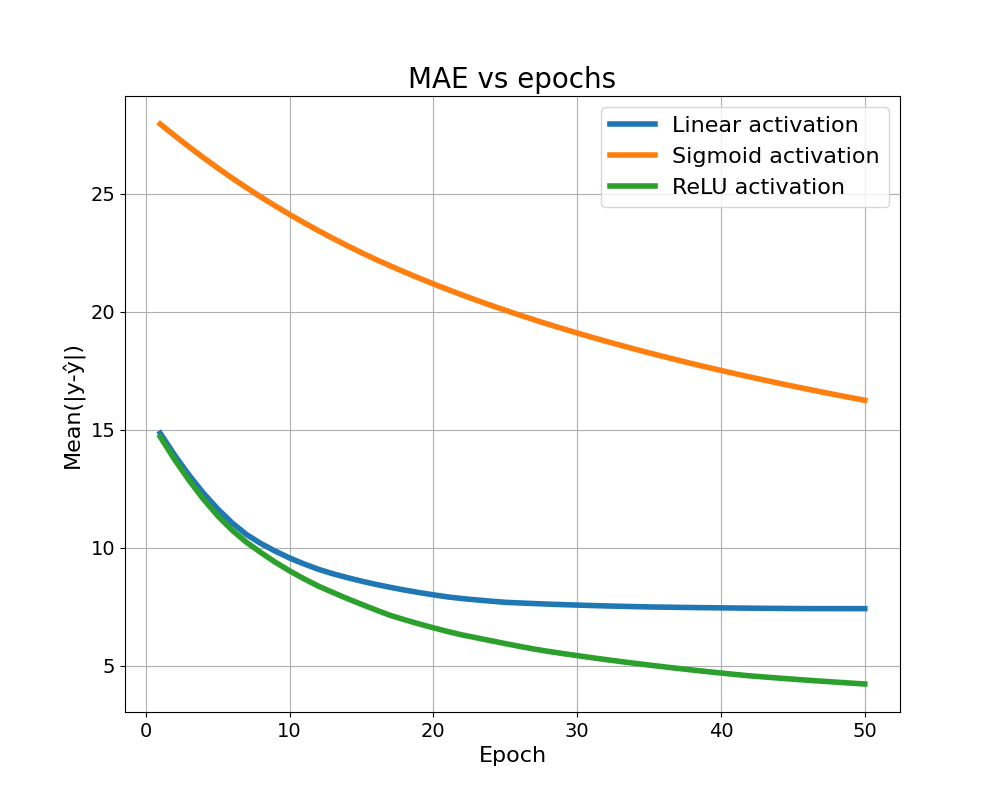
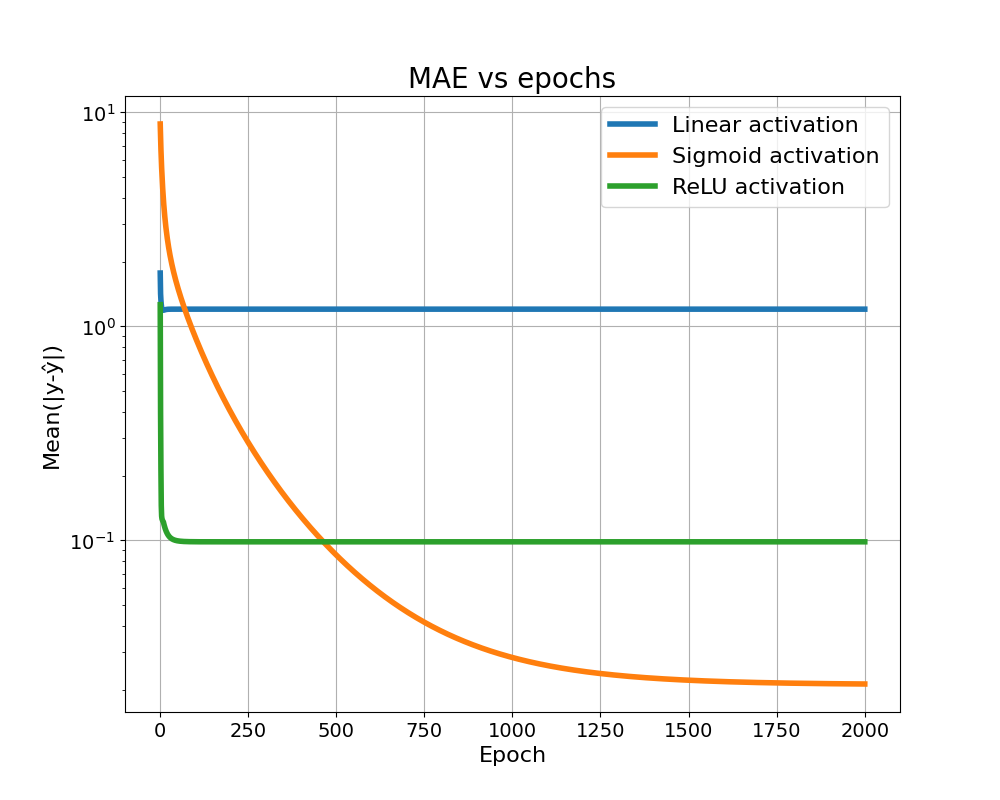
Fix del ej2

diff --git a/experiments/exercise_2/train_tp2.py b/experiments/exercise_2/train_tp2.py
@@ -7,10 +7,10 @@ from pickle import dump
 
 sys.path.append(str(Path(__file__).parent.parent.parent))
 from neural_network.core.perceptron import Perceptron
-from neural_network.core.trainer import k_fold_cross_validate
+from neural_network.core.trainer import k_fold_cross_validate, Trainer
 from neural_network.core.network import NeuralNetwork
 from neural_network.config import OptimizerConfig, WeightInitConfig
-from neural_network.core.losses.functions import mae
+from neural_network.core.losses.functions import mae, mse
 
 DATASET_PATH = str(Path(__file__).parent.parent.parent / "resources" / "datasets" / "TP3-ej2-conjunto.csv")
 
@@ -59,48 +59,42 @@ def train_perceptron(df: DataFrame, perceptron: Perceptron, learning_rate: float
 
     print(f"\n--- INICIANDO ENTRENAMIENTO ---")
 
-    l1_losses = np.zeros(max_epochs)
+    l2_losses = np.zeros(max_epochs)
     for epoch in range(max_epochs):
         epoch_updates = 0
         for i, (inputs, target) in enumerate(zip(X, y)):
             x_input = inputs.reshape(1, -1)
-            prediction = perceptron.calculate_output(x_input)[0]
-            error = target - prediction
+            prediction = perceptron.calculate_output(x_input)#[0]
+            error = (target - prediction[0])
+            # if activation_name == 'SIGMOID':
+            #     print(f'h={prediction[0]}')
+            #     print(f'Sigmoid grad = {perceptron.get_activation_derivative()[0]}')
             # w = w + lr * error * x
-            perceptron.weights[:-1] += learning_rate * error * inputs
+            perceptron.weights[:-1] += learning_rate*error*inputs*(perceptron.get_activation_derivative()[0])
             # b = b + lr * error
-            perceptron.weights[-1] += learning_rate * error
+            perceptron.weights[-1] += learning_rate * error*perceptron.get_activation_derivative()[0]
             epoch_updates += 1
 
-        predictions_normalized = []
-        predictions_original = []
-        for inputs in X:
+        preds = np.zeros(len(y))
+        for i, inputs in enumerate(X):
             x_input = inputs.reshape(1, -1)
-            pred_norm = perceptron.calculate_output(x_input)[0]
-            predictions_normalized.append(pred_norm)
-
-            # Des-normalizar predicción para comparar con datos originales
-            if y_min is not None and y_max is not None:
-                pred_orig = denormalize(pred_norm, y_min, y_max, feature_range)
-            else:
-                pred_orig = pred_norm
-            predictions_original.append(pred_orig)
+            preds[i]= perceptron.calculate_output(x_input)[0]
 
         # Calcular L1 loss en escala original
-        l1_losses[epoch] = np.mean(np.abs(np.array(predictions_original) - y_original))
+        l2_losses[epoch] = (y_max-y_min)*np.mean(np.abs(preds - y)**2)
         # print(f"Época {epoch+1:2d}: Mean L1 error={l1_losses[epoch]:.3f}, Updates={epoch_updates}")
 
     print(f"Pesos finales: [{perceptron.weights[0]:.4f}, {perceptron.weights[1]:.4f}, {perceptron.weights[2]:.4f}]")
     print(f"Bias final: {perceptron.weights[-1]:.4f}")
 
-    return l1_losses, perceptron
+    return l2_losses, perceptron
 
 
 if __name__ == "__main__":
     print("TP3 - EJERCICIO 2: PERCEPTRÓN SIMPLE")
     print("-" * 50)
-    max_epochs = 50
-    lr = 1e-3
+    max_epochs = 2000
+    lr = 2e-2
     # Load dataset
     df = read_csv(DATASET_PATH)
     print(f"Dataset cargado desde '{DATASET_PATH}'")
@@ -145,6 +139,7 @@ if __name__ == "__main__":
     plt.plot(range(1, max_epochs + 1), l1_sigmoid, label='Sigmoid activation', lw=4)
     plt.plot(range(1, max_epochs + 1), l1_bipolar, label='ReLU activation', lw=4)
     plt.ylabel('Mean(|y-ŷ|)')
+    plt.yscale('log')
     plt.xlabel('Epoch')
     plt.grid(True)
     plt.legend(fontsize=16)
@@ -159,17 +154,17 @@ if __name__ == "__main__":
     print(f"{'=' * 60}")
 
     # Seleccionar el mejor modelo y diferentes learning rates
-    learning_rates = [1e-2, 1e-3, 1e-4]
+    learning_rates = [1e0, 1e-1,1e-2, 1e-3, 1e-4]
     lr_losses = {}
 
     print(f"Entrenando modelo RELU con diferentes tasas de aprendizaje...")
     for lr_test in learning_rates:
         print(f"\n--- Learning Rate: {lr_test} ---")
-        relu_lr_mdl = Perceptron(num_inputs=3, activation_type="RELU", weight_init_config=weight_config)
+        relu_lr_mdl = Perceptron(num_inputs=3, activation_type="Sigmoid", weight_init_config=weight_config)
         l1_lr, _ = train_perceptron(df, relu_lr_mdl, learning_rate=lr_test, max_epochs=max_epochs, seed=42, y_min=y_min,
                                     y_max=y_max)
         lr_losses[lr_test] = l1_lr
-        print(f'Final L1 loss (RELU, lr={lr_test}): {l1_lr[-1]:.3f}')
+        print(f'Final L1 loss (Sigmoid, lr={lr_test}): {l1_lr[-1]:.3f}')
 
     # Gráfico de comparación de learning rates
     plt.figure(figsize=(10, 8))
@@ -177,15 +172,16 @@ if __name__ == "__main__":
     plt.rcParams['xtick.labelsize'] = 14  # x-axis ticks
     plt.rcParams['ytick.labelsize'] = 14  # y-axis ticks
     plt.rcParams['axes.titlesize'] = 20  # title
-    plt.title("MAE vs epochs - Learning Rate Comparison (RELU)")
+    plt.title("MAE vs epochs - Learning Rate Comparison (Sigmoid)")
 
-    colors = ['red', 'blue', 'green']
+    colors = ['red', 'blue', 'green', 'orange', 'black']
     for i, lr_test in enumerate(learning_rates):
         plt.plot(range(1, max_epochs + 1), lr_losses[lr_test],
                  label=f'LR = {lr_test}', lw=4, color=colors[i])
 
     plt.ylabel('Mean(|y-ŷ|)')
     plt.xlabel('Epoch')
+    plt.yscale('log')
     plt.grid(True)
     plt.legend(fontsize=16)
     plt.savefig(str(output_dir / "ex2_learning_rates.png"))
@@ -201,19 +197,31 @@ if __name__ == "__main__":
     X = df.drop(columns=['y']).values
 
     topology = [3, 1]
-    mdl = NeuralNetwork(topology, activation_type='RELU')
+    mdl = NeuralNetwork(topology, activation_type='SIGMOID')
     b_size = 1
     opt_cfg = OptimizerConfig(type='SGD')
-    loss = mae
+    loss = mse
     k = 5
     scoring = 'mae'
 
-    results = k_fold_cross_validate(X, y_norm, mdl, opt_cfg, loss, lr, b_size, max_epochs, k, scoring)
+    # tr = Trainer(learning_rate=lr, epochs=max_epochs, optimizer_config=opt_cfg,
+    #                 loss_func=loss, network=mdl)
+    # tr_losses, _ = tr.train(X, y_norm, b_size)
+
+    # plt.figure()
+    # plt.plot(np.array(tr_losses)*(y_max-y_min))
+    # plt.show()
+
+    results = k_fold_cross_validate(X, y_norm, mdl, opt_cfg, loss, lr,
+                                    b_size, max_epochs, k, scoring,
+                                    verbose=True, patience=max_epochs)
     with open(str(output_dir / 'ex2_dict.pkl'), 'wb') as file:
         dump(results, file)
     print(results.keys())
+    for i, score in enumerate(results['fold_scores']):
+        results['fold_scores'][i] = score*(y_max-y_min)
     fold_details = results['fold_details']
-    print(f'Mean {scoring} over {results["n_folds"]} folds: {results["mean_score"]:.4f} ± {results["std_score"]:.4f}')
+    print(f'Mean {scoring} over {results["n_folds"]} folds: {results["mean_score"]*(y_max-y_min):.4f} ± {results["std_score"]*(y_max-y_min):.4f}')
     plt.figure(figsize=(10, 8))
     plt.rcParams['axes.labelsize'] = 16  # x and y labels
     plt.rcParams['xtick.labelsize'] = 14  # x-axis ticks
@@ -229,22 +237,22 @@ if __name__ == "__main__":
     plt.show()
 
 
-    # Check linearity of data
-    # Simple linearity test using correlations
-    def simple_linearity_test(coords, outputs):
-        # Calculate correlation coefficients between each coordinate and output
-        correlations = np.array([np.corrcoef(coords[:, i], outputs)[0, 1]
-                                 for i in range(coords.shape[1])])
+    # # Check linearity of data
+    # # Simple linearity test using correlations
+    # def simple_linearity_test(coords, outputs):
+    #     # Calculate correlation coefficients between each coordinate and output
+    #     correlations = np.array([np.corrcoef(coords[:, i], outputs)[0, 1]
+    #                              for i in range(coords.shape[1])])
 
-        # Calculate overall correlation (you could also use multiple R)
-        X_with_ones = np.column_stack([np.ones(len(coords)), coords])
-        beta = np.linalg.lstsq(X_with_ones, outputs, rcond=None)[0]
-        predictions = X_with_ones @ beta
-        r_squared = np.corrcoef(outputs, predictions)[0, 1] ** 2
+    #     # Calculate overall correlation (you could also use multiple R)
+    #     X_with_ones = np.column_stack([np.ones(len(coords)), coords])
+    #     beta = np.linalg.lstsq(X_with_ones, outputs, rcond=None)[0]
+    #     predictions = X_with_ones @ beta
+    #     r_squared = np.corrcoef(outputs, predictions)[0, 1] ** 2
 
-        return correlations, r_squared
+    #     return correlations, r_squared
 
 
-    correlations, r_squared = simple_linearity_test(X, y)
-    print(f"Correlations with output: {correlations}")
-    print(f"R-squared: {r_squared:.4f}")
+    # correlations, r_squared = simple_linearity_test(X, y_norm)
+    # print(f"Correlations with output: {correlations}")
+    # print(f"R-squared: {r_squared:.4f}")

diff --git a/neural_network/core/trainer.py b/neural_network/core/trainer.py
@@ -49,7 +49,7 @@ class Trainer:
                 total_loss += batch_loss
 
                 # FIX 1: Ensure batch_loss has correct shape for backpropagation
-                delta_output = loss_grad
+                delta_output = loss_grad*self.network.layers[-1].get_activation_derivative()
                 
                 deltas = [delta_output]  # Start with output layer delta
 
@@ -165,7 +165,9 @@ def k_fold_cross_validate(
     shuffle: bool = True,
     random_state: int = None,
     return_models: bool = False,
-    stratified: bool = False
+    stratified: bool = False,
+    verbose: bool = False,
+    patience: int = 100
 ) -> Dict[str, Union[float, List]]:
     """
     Perform k-fold cross-validation on a given dataset.
@@ -230,7 +232,8 @@ def k_fold_cross_validate(
         y_train, y_test = y[train_idx], y[test_idx]
         
         # Train model
-        tr.train(X_train, y_train, batch_size)
+        tr.train(X_train, y_train, batch_size, verbose,
+                  X_test, y_test, patience)
         
         # Make predictions
         y_pred = fold_model.forward(X_test)

diff --git a/neural_network/core/perceptron.py b/neural_network/core/perceptron.py
@@ -70,6 +70,6 @@ class Perceptron:
         elif init_type == "ones":
             return np.ones(num_inputs, dtype=np.float32)
         elif init_type == "random":
-            return (np.random.randn(num_inputs) * 0.1).astype(np.float32)
+            return (np.random.randn(num_inputs) * 0.01).astype(np.float32)
         else:
             raise ValueError(f"Tipo de inicialización de pesos no soportado: {init_type}")

diff --git a/neural_network/core/losses/functions.py b/neural_network/core/losses/functions.py
@@ -23,3 +23,7 @@ def cross_entropy_loss(predictions: np.ndarray, targets: np.ndarray) -> (float, 
 def mae(x1, x2) -> (float, np.ndarray):
     "Mean absolute err"
     return np.mean(np.abs(x1-x2)), np.sign(x1-x2)/x1.shape[0]
+
+def mse(pred, label) -> (float, np.ndarray):
+    "Mean absolute err"
+    return np.mean((pred-label)**2), pred-label
